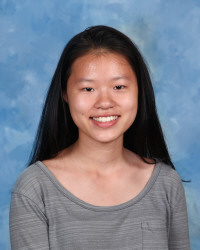
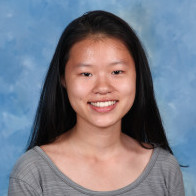
added nick's profile and cropped all images

diff --git a/about.html b/about.html
@@ -319,7 +319,7 @@
                 </div>
                 <div class="col-xs-5ths">
                     <div class="team-member">
-                        <img src="images/team/4.jpg" class="img-responsive img-circle" alt="">
+                        <img src="images/team/nick.jpg" class="img-responsive img-circle" alt="">
                         <h4>Nick Rubel</h4>
                         <p class="text-muted">University of Texas - Arlington</p>
                         <ul class="list-inline social-buttons">
